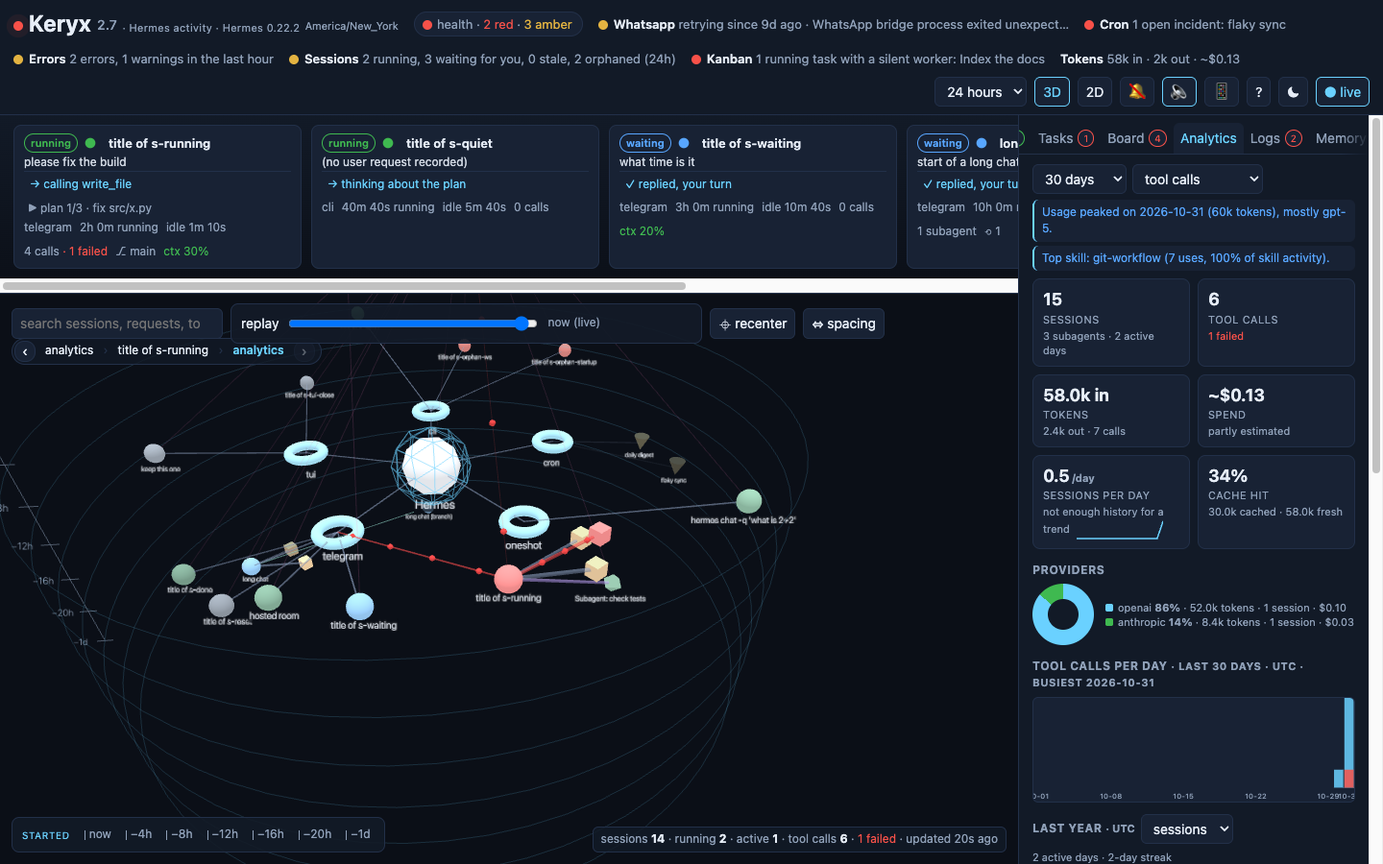
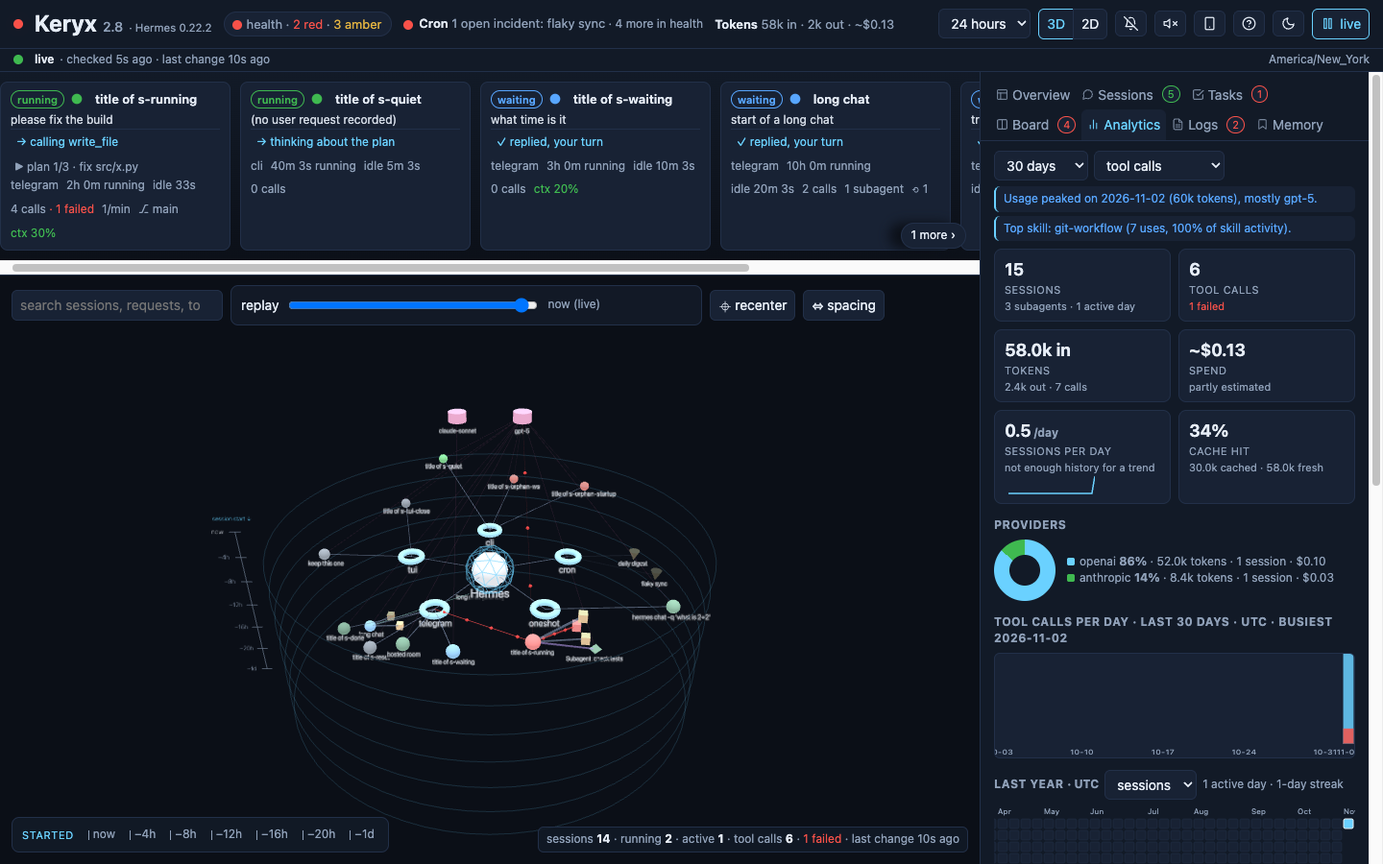
Typography and small-screen hygiene; version 2.8; docs and screenshots
- Times are a 24-hour clock everywhere (fmtTime/fmtT with hourCycle h23,
  tabular-nums in the logs and trace): '13:47:36' no longer wraps onto two
  lines in the Logs tab and the session id is no longer clipped.
- Body text has a 12 px floor; 11 px remains only for uppercase labels and
  pill badges; monospace snippets sit at 11.5 px.
- Light theme: accent, amber, green, blue and red are darkened so each
  reads at 5:1 or better on the page background (they were 4.5 to 4.9).
- Now-strip cards shrink to 240 px and snap; a '3 more' pill in the corner
  says how many cards sit off the right edge and scrolls to them.
- Phones: every control a thumb reaches is at least 40 px tall.
- README and docs describe the connection strip, the setup card, the phone
  header and sheet, the attention groups and mute, reduced motion, the
  keyboard reach, the resizable panel, the 24-hour clock and that Keryx is
  English only. Screenshots regenerated from synthetic data at 2.8.

diff --git a/frontend/src/styles.css b/frontend/src/styles.css
@@ -58,11 +58,12 @@ button:hover { border-color: var(--muted); }
 .fr-motion { display: flex; gap: 8px; align-items: flex-start; margin: 8px 0 2px; cursor: pointer; } .fr-motion input { margin: 2px 0 0; accent-color: var(--accent); }
 .body { flex: 1; display: flex; min-height: 0; }
 .main { flex: 1; display: flex; flex-direction: column; min-width: 0; }
-.now { display: flex; gap: 10px; overflow-x: auto; padding: 10px 14px; border-bottom: 1px solid var(--line);
+.now { display: flex; gap: 10px; overflow-x: auto; padding: 10px 14px; border-bottom: 1px solid var(--line); scroll-snap-type: x proximity; position: relative;
   background: linear-gradient(to bottom, var(--panel), var(--bg)); min-height: 64px; }
 .now:empty::after { content: "idle — no running sessions"; color: var(--muted); align-self: center; }
-.card { flex: 0 0 300px; background: var(--panel2); border: 1px solid var(--line); border-radius: 8px;
+.card { flex: 1 0 240px; max-width: 340px; scroll-snap-align: start; background: var(--panel2); border: 1px solid var(--line); border-radius: 8px;
   padding: 8px 10px; cursor: pointer; font-size: 12px; }
+.now .more { position: sticky; right: 0; align-self: flex-end; margin-bottom: 2px; flex: none; border-radius: 14px; padding: 4px 10px; font-size: 12px; white-space: nowrap; box-shadow: -12px 0 12px var(--bg); }
 .card .t { border-radius: 4px; margin: -2px -4px 0; padding: 2px 4px; }
 .card:hover, .card.sel { border-color: var(--accent); }
 .card .t { font-weight: 600; font-size: 13px; margin-bottom: 2px; display: flex; gap: 6px; align-items: center; }
@@ -101,7 +102,7 @@ button:hover { border-color: var(--muted); }
 .side td { padding: 3px 0; vertical-align: top; } .side td:first-child { color: var(--muted); width: 40%; }
 .cost td:nth-child(n+2) { text-align: right; font-variant-numeric: tabular-nums; }
 .err { color: var(--red); } .ok { color: var(--green); } .warn { color: var(--amber); }
-.small { font-size: 11px; color: var(--muted); }
+.small { font-size: 12px; color: var(--muted); }
 /* connection strip: the one place that says whether the picture is current */
 .connstrip { display: flex; gap: 6px; align-items: center; min-height: 24px; padding: 2px 14px; font-size: 12px; color: var(--muted);
   border-bottom: 1px solid var(--line); background: var(--panel); }
@@ -137,6 +138,12 @@ button:hover { border-color: var(--muted); }
   .mobilebar .small { margin-left: 0; }
   .now { min-height: 56px; padding-top: 8px; padding-bottom: 8px; }
   .card { flex-basis: 240px; }
+  /* touch targets: 40 px minimum for every control a thumb reaches (text links and section headers excepted) */
+  .app.narrow .right button, .app.narrow .right select, .app.narrow .sheet button, .app.narrow .sheet select, .app.narrow .tabs button,
+  .app.narrow .mobilebar button, .app.narrow .mobilebar .hcount, .app.narrow .toolbar button, .app.narrow .toolbar input, .app.narrow .row button,
+  .app.narrow .row select, .app.narrow .row input, .app.narrow .gate button, .app.narrow .gate input, .app.narrow .firstrun button { min-height: 40px; }
+  .app.narrow .tabs button { padding-top: 4px; padding-bottom: 4px; }
+  .app.narrow .att .mutebtn { min-height: 32px; opacity: 1; }
   .toolbar { left: 8px; right: 8px; top: 8px; gap: 6px; }
   .toolbar input[type=search] { width: 100%; }
   .replay { flex: 1; min-width: 0; } .replay input[type=range] { flex: 1; width: auto; min-width: 60px; } .replay .t { min-width: 0; }
@@ -156,8 +163,8 @@ button:hover { border-color: var(--muted); }
 .side a { color: var(--accent); text-decoration: none; }
 
 /* light theme */
-:root[data-theme="light"] { --bg: #f4f6fa; --panel: #ffffff; --panel2: #eef2f7; --line: #d6dde8; --text: #14202e; --muted: #5b6b80; --accent: #0b74c4;
-  --green: #1a7f37; --amber: #9a6700; --red: #cf222e; --blue: #0969da; --shadow: rgba(20,32,46,.18); --label-halo: rgba(244,246,250,.8); }
+:root[data-theme="light"] { --bg: #f4f6fa; --panel: #ffffff; --panel2: #eef2f7; --line: #d6dde8; --text: #14202e; --muted: #5b6b80; --accent: #0a66ad;
+  --green: #166f30; --amber: #875a00; --red: #c41f2b; --blue: #0860c9;   /* each at least 5:1 on --bg, so 12 px text clears AA with room */ --shadow: rgba(20,32,46,.18); --label-halo: rgba(244,246,250,.8); }
 :root[data-theme="light"] .popover.qr img { border: 1px solid var(--line); }
 /* side panel tabs */
 .tabs { display: flex; flex-wrap: wrap; gap: 0; margin: -4px -14px 10px; padding: 0 10px; border-bottom: 1px solid var(--line); }
@@ -178,20 +185,20 @@ svg.bars .axis { fill: var(--muted); font-size: 7px; }
 /* sessions list */
 .srow { display: flex; gap: 6px; align-items: flex-start; padding: 6px 6px; border-radius: 6px; cursor: pointer; border: 1px solid transparent; }
 .srow:hover { background: var(--panel2); } .srow.sel { border-color: var(--accent); }
-.srow .title { font-size: 12.5px; line-height: 1.3; }
+.srow .title { font-size: 13px; line-height: 1.3; }
 h3.acc { user-select: none; } .section h3.acc .accbtn { width: 100%; }
-kbd { background: var(--panel2); border: 1px solid var(--line); border-radius: 4px; padding: 0 4px; font-size: 11px; }
+kbd { background: var(--panel2); border: 1px solid var(--line); border-radius: 4px; padding: 0 4px; font-size: 11.5px; }
 /* logs */
-.loglist { font-size: 11.5px; margin-top: 6px; }
-.log { display: grid; grid-template-columns: 60px 56px minmax(0, 1fr) auto; grid-auto-rows: auto; column-gap: 6px; padding: 4px 0; border-top: 1px solid var(--line); }
-.log pre { grid-column: 1 / -1; margin: 2px 0 0; white-space: pre-wrap; word-break: break-word; font-size: 11px; color: var(--text); }
-.log .when { color: var(--muted); } .log .sess { color: var(--accent, #6ad1ff); font-family: ui-monospace, monospace; font-size: 10.5px; text-decoration: none; white-space: nowrap; }
+.loglist { font-size: 12px; margin-top: 6px; overflow: hidden; }
+.log { display: grid; grid-template-columns: 62px 58px minmax(0, 1fr) auto; grid-auto-rows: auto; column-gap: 6px; min-width: 0; padding: 4px 0; border-top: 1px solid var(--line); }
+.log pre { grid-column: 1 / -1; margin: 2px 0 0; white-space: pre-wrap; word-break: break-word; font-size: 12px; color: var(--text); }
+.log .when { color: var(--muted); font-variant-numeric: tabular-nums; white-space: nowrap; } .log .sess { color: var(--accent, #6ad1ff); font-family: ui-monospace, monospace; font-size: 11.5px; text-decoration: none; white-space: nowrap; }
 .log button.sess { justify-self: end; } .log .lvl { font-weight: 600; } .log .logger { color: var(--muted); overflow: hidden; text-overflow: ellipsis; white-space: nowrap; }
 .log.warning .lvl { color: var(--amber); } .log.error .lvl, .log.critical .lvl { color: var(--red); } .log.info .lvl { color: var(--muted); }
 /* trace */
 .trace { font-size: 12px; }
 .step { padding: 5px 6px; border-top: 1px solid var(--line); }
-.step .when { color: var(--muted); margin-right: 6px; font-size: 11px; }
+.step .when { color: var(--muted); margin-right: 6px; font-size: 12px; font-variant-numeric: tabular-nums; }
 .step b { margin-right: 4px; }
 .step .txt { white-space: pre-wrap; word-break: break-word; margin-top: 2px; }
 .step.user { background: color-mix(in srgb, var(--accent) 8%, transparent); }
@@ -212,13 +219,13 @@ kbd { background: var(--panel2); border: 1px solid var(--line); border-radius: 4
 .step.event b { color: var(--muted); font-weight: 500; font-style: italic; }
 .step .detail { margin-top: 4px; }
 .step .k { color: var(--muted); font-size: 11px; text-transform: uppercase; letter-spacing: .5px; margin-top: 4px; }
-.step pre { margin: 2px 0; white-space: pre-wrap; word-break: break-word; font-size: 11px; background: var(--panel2); padding: 6px; border-radius: 4px; max-height: 240px; overflow: auto; }
+.step pre { margin: 2px 0; white-space: pre-wrap; word-break: break-word; font-size: 12px; background: var(--panel2); padding: 6px; border-radius: 4px; max-height: 240px; overflow: auto; }
 .legend td.small { padding-top: 8px; }
 
 /* clickable time axis */
 .timeaxis { position: absolute; left: 12px; bottom: 12px; display: flex; flex-direction: row; align-items: center; gap: 2px; z-index: 3; max-width: calc(100% - 24px); overflow-x: auto;
   background: color-mix(in srgb, var(--panel) 88%, transparent); border: 1px solid var(--line); border-radius: 8px; padding: 6px 6px 6px 4px; }
-.ta-title { font-size: 10px; color: var(--accent); text-transform: uppercase; letter-spacing: .6px; padding: 0 8px 0 6px; white-space: nowrap; }
+.ta-title { font-size: 11px; color: var(--accent); text-transform: uppercase; letter-spacing: .6px; padding: 0 8px 0 6px; white-space: nowrap; }
 .ta-tick { display: flex; align-items: center; gap: 4px; background: transparent; border: 1px solid transparent; color: var(--muted);
   padding: 2px 7px 2px 4px; font-size: 12px; text-align: left; border-radius: 5px; white-space: nowrap; }
 .ta-tick:hover { color: var(--text); background: var(--panel2); }
@@ -236,7 +243,7 @@ kbd { background: var(--panel2); border: 1px solid var(--line); border-radius: 4
 
 /* --- AionUi-inspired additions: badges, tasks board, context gauge, files, toasts, QR --- */
 .info { color: var(--blue); }
-.badge { display: inline-block; min-width: 16px; padding: 0 5px; margin-left: 5px; border-radius: 9px; font-size: 10px; line-height: 16px;
+.badge { display: inline-block; min-width: 16px; padding: 0 5px; margin-left: 5px; border-radius: 9px; font-size: 11px; line-height: 16px;
   text-align: center; background: var(--panel2); color: var(--text); border: 1px solid var(--line); vertical-align: 1px; }
 .badge.ok { border-color: var(--green); color: var(--green); } .badge.err { border-color: var(--red); color: var(--red); }
 .tabs button { white-space: nowrap; flex: none; }
@@ -252,7 +259,7 @@ kbd { background: var(--panel2); border: 1px solid var(--line); border-radius: 4
 .gauge .bar { flex: 0 0 90px; height: 7px; background: var(--panel2); border: 1px solid var(--line); border-radius: 4px; overflow: hidden; }
 .gauge .bar i { display: block; height: 100%; background: var(--green); }
 .gauge .bar i.warn { background: var(--amber); } .gauge .bar i.err { background: var(--red); }
-.files { font-size: 11.5px; }
+.files { font-size: 12px; }
 .file { display: grid; grid-template-columns: 28px 1fr auto; gap: 6px; align-items: baseline; padding: 2px 0; border-top: 1px solid var(--line); }
 .file .op { color: var(--muted); } .file.changed .op { color: var(--amber); }
 .file .path { overflow: hidden; text-overflow: ellipsis; white-space: nowrap; direction: rtl; text-align: left; min-width: 0; }
@@ -288,7 +295,7 @@ kbd { background: var(--panel2); border: 1px solid var(--line); border-radius: 4
 .reader .seg button:disabled { opacity: .45; cursor: default; }
 .outline { margin: 6px 0 2px; }
 .outline ol { list-style: none; margin: 2px 0 6px; padding: 0; max-height: 180px; overflow: auto; border: 1px solid var(--line); border-radius: 6px; }
-.outline li a { display: grid; grid-template-columns: 18px minmax(0, 1fr) auto; gap: 6px; align-items: baseline; padding: 3px 6px; color: var(--text); text-decoration: none; font-size: 11.5px; }
+.outline li a { display: grid; grid-template-columns: 18px minmax(0, 1fr) auto; gap: 6px; align-items: baseline; padding: 3px 6px; color: var(--text); text-decoration: none; font-size: 12px; }
 .outline li a:hover { background: var(--panel2); } .outline li.off a { opacity: .45; }
 .outline .n { color: var(--muted); font-variant-numeric: tabular-nums; } .outline .q { overflow: hidden; text-overflow: ellipsis; white-space: nowrap; }
 .outline .m { white-space: nowrap; }
@@ -300,9 +307,9 @@ kbd { background: var(--panel2); border: 1px solid var(--line); border-radius: 4
 .step.assistant.note .txt { color: var(--muted); font-style: italic; }
 .step.pending { border-top: none; padding-top: 2px; }
 .step .glyph { display: inline-block; width: 14px; text-align: center; color: var(--muted); margin-right: 4px; font-size: 11px; }
-.step .title { color: var(--muted); font-family: ui-monospace, SFMono-Regular, Menlo, monospace; font-size: 11px; margin-left: 2px; overflow: hidden; text-overflow: ellipsis; white-space: nowrap; display: inline-block; max-width: 55%; vertical-align: bottom; }
+.step .title { color: var(--muted); font-family: ui-monospace, SFMono-Regular, Menlo, monospace; font-size: 11.5px; margin-left: 2px; overflow: hidden; text-overflow: ellipsis; white-space: nowrap; display: inline-block; max-width: 55%; vertical-align: bottom; }
 .step .st { white-space: nowrap; }
-.diffline { font-size: 11px; margin-top: 2px; font-family: ui-monospace, SFMono-Regular, Menlo, monospace; }
+.diffline { font-size: 12px; margin-top: 2px; font-family: ui-monospace, SFMono-Regular, Menlo, monospace; }
 .add { color: var(--green); } .del { color: var(--red); } .diffline .path { color: var(--muted); }
 .pm { font-family: ui-monospace, SFMono-Regular, Menlo, monospace; }
 .step.miss { opacity: .35; } .step.hit { box-shadow: inset 2px 0 0 var(--accent); }
@@ -324,23 +331,23 @@ svg.heatmap .c.today { stroke: var(--text); stroke-width: 1; }
 tr.off td { opacity: .55; }
 
 /* sessions list: tags, pins, conversation search */
-.tagchip { display: inline-block; font-size: 10.5px; padding: 0 6px; margin-left: 5px; border-radius: 9px; border: 1px solid var(--line); color: var(--muted); text-decoration: none; line-height: 16px; vertical-align: 1px; }
+.tagchip { display: inline-block; font-size: 11px; padding: 0 6px; margin-left: 5px; border-radius: 9px; border: 1px solid var(--line); color: var(--muted); text-decoration: none; line-height: 16px; vertical-align: 1px; }
 .tagchip:hover { border-color: var(--accent); color: var(--accent); } .tagchip.on { border-color: var(--accent); color: var(--accent); background: color-mix(in srgb, var(--accent) 12%, transparent); }
 .tags { display: inline-flex; flex-wrap: wrap; gap: 2px 0; align-items: center; }
 .srow .pin { margin-left: auto; color: var(--muted); text-decoration: none; opacity: 0; font-size: 13px; padding: 0 2px; }
 .srow:hover .pin, .srow .pin.hermes { cursor: default; } .pin.on { opacity: 1; } .srow .pin.on { color: var(--amber); }
 .snip { margin-top: 2px; line-height: 1.3; } .snip mark { background: color-mix(in srgb, var(--accent) 30%, transparent); color: var(--text); border-radius: 2px; padding: 0 1px; }
 .snt { color: var(--text); opacity: .85; }
-.resume { margin-top: 6px; } .resume code { font-family: ui-monospace, SFMono-Regular, Menlo, monospace; font-size: 11px; background: var(--panel2); padding: 1px 5px; border-radius: 4px; user-select: all; }
+.resume { margin-top: 6px; } .resume code { font-family: ui-monospace, SFMono-Regular, Menlo, monospace; font-size: 11.5px; background: var(--panel2); padding: 1px 5px; border-radius: 4px; user-select: all; }
 
 /* memory panel */
 .tabs.sub { margin: 0 0 6px; } .tabs.sub button { padding: 4px 8px; text-transform: none; }
 .entries { list-style: none; margin: 0; padding: 0; }
 .entries li { display: grid; grid-template-columns: 18px minmax(0, 1fr); gap: 6px; padding: 5px 4px; border-top: 1px solid var(--line); font-size: 12px; }
-.entries .n { color: var(--muted); font-variant-numeric: tabular-nums; font-size: 11px; padding-top: 1px; }
+.entries .n { color: var(--muted); font-variant-numeric: tabular-nums; font-size: 12px; padding-top: 1px; }
 .entries .txt { white-space: pre-wrap; word-break: break-word; }
 .entries li.blocked .txt { color: var(--red); } .entries li.blocked { background: color-mix(in srgb, var(--red) 8%, transparent); }
-.memory code, .side code { font-family: ui-monospace, SFMono-Regular, Menlo, monospace; font-size: 11px; background: var(--panel2); padding: 1px 4px; border-radius: 4px; }
+.memory code, .side code { font-family: ui-monospace, SFMono-Regular, Menlo, monospace; font-size: 11.5px; background: var(--panel2); padding: 1px 4px; border-radius: 4px; }
 
 /* kanban board (read-only) */
 .kcard { cursor: pointer; } .kcard:hover { border-color: var(--accent); } .kcard.open { border-color: var(--accent); }

diff --git a/docs/index.html b/docs/index.html
@@ -243,7 +243,7 @@ footer .wrap > div { display: flex; flex-wrap: wrap; gap: 16px; align-items: cen
         <div class="card">
           <h3>Health header</h3>
           <ul>
-            <li>The title dot shows the worst check; a <strong>health</strong> pill counts the red and amber ones and opens every check; only checks that are not green stay inline.</li>
+            <li>The title dot shows the worst check; a <strong>health</strong> pill counts the red and amber ones and opens every check (Esc closes it); only the single worst check stays inline. A strip under the header says whether the picture is current: <strong>live · checked 3s ago · last change 4m ago</strong>, <strong>reconnecting…</strong> or <strong>backend unreachable since 14:02</strong>, with the stream pinged every 15 s so a dead host shows within half a minute.</li>
             <li><strong>Gateway</strong> heartbeat and Hermes' own process state and version from <code>gateway_state.json</code>, one check per <strong>messaging platform</strong> as the gateway reports it (with the error it recorded when one is retrying), <strong>cron</strong> scheduler, the <strong>error log</strong>, session states, and the kanban board when it has tasks, each green / amber / red; the worst one drives the title dot.</li>
             <li>The cron check reads Hermes' own incident ledger and delivery queue: an open incident is red, undelivered results are amber.</li>
             <li>Token totals for the window with the spend, prefixed <code>~</code> when it is an estimate rather than a provider-reported figure.</li>
@@ -359,9 +359,9 @@ footer .wrap > div { display: flex; flex-wrap: wrap; gap: 16px; align-items: cen
         <h3>Navigation</h3>
         <ul>
           <li>Every selection is a browser history entry that remembers the selection, the tab and the camera pose. <kbd>Backspace</kbd> goes back, <kbd>Shift</kbd>+<kbd>Backspace</kbd> forward; <kbd>Alt</kbd>+<kbd>←</kbd> and trackpad swipes work too. <kbd>[</kbd> and <kbd>]</kbd> change tab, <kbd>↑</kbd> <kbd>↓</kbd> walk the session list, <kbd>?</kbd> in the header reopens the first-run card.</li>
-          <li>On a phone the graph and the panel take turns at full width behind a map / panel toggle; light and dark themes are both designed, not inverted.</li>
+          <li>On a phone the header is one row with a "…" sheet for the controls, the health counts sit in the map / panel bar, every control is at least 40 px tall, and the graph and the panel take turns at full width; light and dark themes are both designed, not inverted.</li>
           <li>The URL hash (<code>#session:…</code>, <code>#cron:…</code>) is a deep link you can share, or scan from the QR popover to open on your phone, where "add to home screen" keeps Keryx as an app.</li>
-          <li>Every icon button is labelled for screen readers; focus rings are visible; a first-run card explains the picture and <kbd>?</kbd> brings it back.</li>
+          <li>Every card, attention line, section header, trace step and kanban card is a real control reachable with <kbd>Tab</kbd>; focus rings are visible; a first-run card explains the picture, holds the reduce-motion switch, and <kbd>?</kbd> brings it back. The attention list is grouped into <strong>needs action</strong>, <strong>watch</strong> and <strong>info</strong>, says since when, and a line can be muted on this device until it changes. With no <code>state.db</code> behind the backend the graph gives way to a setup card naming the fix.</li>
         </ul>
       </div>
       <div class="card">

diff --git a/frontend/src/NowStrip.jsx b/frontend/src/NowStrip.jsx
@@ -1,12 +1,27 @@
-import React from 'react'
+import React, { useEffect, useRef, useState } from 'react'
 import { STATUS, contextLevel, dur, plural } from './util.js'
 import Shape from './Shapes.jsx'
 import { pressable } from './a11y.js'
 
 export default function NowStrip({ now, selected, onSelect }) {
   const rows = (now?.running || []).filter(r => r.status === 'running' || r.status === 'stale' || r.status === 'waiting')
+  const ref = useRef(null)
+  const [hiddenN, setHiddenN] = useState(0)      // cards off the right edge: the strip says so instead of looking merely cut off
+  useEffect(() => {
+    const el = ref.current
+    if (!el) return
+    const count = () => {
+      const right = el.getBoundingClientRect().right
+      setHiddenN([...el.querySelectorAll('.card')].filter(c => c.getBoundingClientRect().left + 40 > right).length)
+    }
+    count()
+    el.addEventListener('scroll', count, { passive: true })
+    const ro = typeof ResizeObserver !== 'undefined' ? new ResizeObserver(count) : null
+    ro?.observe(el)
+    return () => { el.removeEventListener('scroll', count); ro?.disconnect() }
+  }, [rows.length])
   return (
-    <div className="now" role="list" aria-label="sessions in progress">
+    <div className="now" role="list" aria-label="sessions in progress" ref={ref}>
       {rows.map(r => (
         <div key={r.id} className={`card ${selected === 'session:' + r.id ? 'sel' : ''}`} role="listitem">
           <div className="t" {...pressable(() => onSelect('session:' + r.id), { className: 't', 'aria-label': `${r.status}: ${r.title}. Open its details`, 'aria-pressed': selected === 'session:' + r.id })}>
@@ -30,6 +45,7 @@ export default function NowStrip({ now, selected, onSelect }) {
           </div>
         </div>
       ))}
+      {hiddenN > 0 && <button type="button" className="more" onClick={() => ref.current?.scrollBy({ left: 260, behavior: 'smooth' })} aria-label={`${hiddenN} more ${hiddenN === 1 ? 'session' : 'sessions'} to the right; scroll`}>{hiddenN} more ›</button>}
     </div>
   )
 }

diff --git a/frontend/src/util.test.js b/frontend/src/util.test.js
@@ -1,0 +1,23 @@
+import { describe, expect, it } from 'vitest'
+import { dur, fmtT, fmtTime, num, plural } from './util.js'
+
+describe('time formatting', () => {
+  it('uses a 24-hour clock that never wraps', () => {
+    expect(fmtTime(1_700_000_000)).toMatch(/^\d{2}:\d{2}:\d{2}$/)
+    expect(fmtTime(0)).toBe('–')
+    expect(fmtT(1_700_000_000)).toMatch(/\d{2}:\d{2}:\d{2}$/)
+    expect(fmtT(1_700_000_000)).not.toMatch(/[AP]M/)
+  })
+  it('midnight is 00, not 24', () => {
+    const midnight = new Date(2026, 0, 1, 0, 5, 7).getTime() / 1000
+    expect(fmtTime(midnight)).toBe('00:05:07')
+  })
+})
+
+describe('small helpers', () => {
+  it('dur and plural', () => {
+    expect(dur(59)).toBe('59s'); expect(dur(61)).toBe('1m 1s'); expect(dur(3600 * 26)).toBe('1d 2h')
+    expect(plural(1, 'call')).toBe('1 call'); expect(plural(2, 'entry', 'entries')).toBe('2 entries')
+  })
+  it('num abbreviates', () => { expect(num(950)).toBe('950'); expect(num(58_000)).toBe('58.0k'); expect(num(2_500_000)).toBe('2.50M') })
+})

diff --git a/frontend/src/util.js b/frontend/src/util.js
@@ -1,5 +1,7 @@
-export const fmtT = t => (t ? new Date(t * 1000).toLocaleString() : '–')
-export const fmtTime = t => (t ? new Date(t * 1000).toLocaleTimeString() : '–')
+// 24-hour clock everywhere: '13:47:36' sorts, aligns (tabular-nums) and never wraps, where '1:47:36 PM' did all three
+const H23 = { hourCycle: 'h23', hour: '2-digit', minute: '2-digit', second: '2-digit' }
+export const fmtT = t => (t ? new Date(t * 1000).toLocaleString(undefined, { ...H23, year: 'numeric', month: 'short', day: 'numeric' }) : '–')
+export const fmtTime = t => (t ? new Date(t * 1000).toLocaleTimeString(undefined, H23) : '–')
 export const dur = s => {
   if (s == null) return '–'
   s = Math.max(0, s)

diff --git a/backend/app.py b/backend/app.py
@@ -73,7 +73,7 @@ USER_CLOSE_REASONS = {"cli_close", "tui_shutdown", "tui_close", "user_exit", "se
 # The session was compacted: Hermes ends it and continues the same conversation in a child session.
 COMPRESSION_REASON = "compression"
 
-app = FastAPI(title="Keryx", version="2.7")
+app = FastAPI(title="Keryx", version="2.8")
 
 
 def authorised(request: Request) -> bool:

diff --git a/README.md b/README.md
@@ -92,9 +92,10 @@ docker compose pull keryx && docker compose up -d keryx      # Docker
 
 | Area | What it shows |
 |---|---|
-| Header | the title dot shows the worst health check; a **health** pill counts the red and amber ones and opens every check; only checks that are not green stay inline. Checks: gateway (heartbeat, Hermes' own process state and version from `gateway_state.json`, a pending restart), one per messaging platform as the gateway reports it, cron (incidents, missed slots, undelivered results), error log, sessions, the kanban board when it has tasks, storage. Token totals with the spend, `~` when estimated. The browser's timezone is named beside the title. |
+| Header | the title dot shows the worst health check; a **health** pill counts the red and amber ones and opens every check (Esc or a click outside closes it); the single worst check stays inline with "N more in health". Checks: gateway (heartbeat, Hermes' own process state and version from `gateway_state.json`, a pending restart), one per messaging platform as the gateway reports it, cron (incidents, missed slots, undelivered results), error log, sessions, the kanban board when it has tasks, storage. Token totals with the spend, `~` when estimated. |
+| Connection strip | under the header, the one place that says whether the picture is current: **live · checked 3s ago · last change 4m ago**, **reconnecting… showing data from 14:02** (amber, the stream went quiet or failed and Keryx is polling), **backend unreachable since 14:02 · showing the last snapshot** (red), or **live updates paused**. The backend pings the stream every 15 s; 30 s of silence counts as stalled. The browser's timezone sits at its right end. On a phone only the non-green states take the room. |
 | Right now | one card per open session: the request, the latest step, plan progress, elapsed and idle time, calls per minute, context usage, git branch, subagents. |
-| Attention | one ranked list of everything red or amber (failing cron jobs, platforms that are not connected, silent kanban workers, undelivered results, log errors, a pending gateway restart, orphaned sessions) and, last, the sessions waiting for you. Each line selects the node or opens the tab. |
+| Attention | everything red or amber (failing cron jobs, platforms that are not connected, silent kanban workers, undelivered results, log errors, a pending gateway restart, orphaned sessions) in three groups, **needs action**, **watch** and **info** (the sessions waiting for you), each with a count and "since 9d" where the data knows when it began. Each line selects the node or opens the tab. The bell on a line mutes it on this device until its text changes; muted lines sit behind "N muted · show". Keryx never writes any of this to Hermes. |
 | Graph | Hermes at the centre, the platforms it talks on around it, each session in its platform's wedge with its tools clustered around it, subagents in orbit, models on a shelf, cron jobs below. 3D or 2D; labels scale with distance. A clickable ruler along the bottom filters by when a session started. |
 | Selected node | a session opens with four lines (status, request, latest step, context gauge) and the command to resume it in a terminal, then the **trace** as a reading view, the agent's **plan** (its `todo_list`), **what fills the context** (your messages, replies, tool-call arguments and tool output by tool, in characters), **files touched**, and two collapsed sections: cost and usage, lineage and environment. |
 | Sessions tab | grouped by platform, time or project; `#tags` from titles as filter chips; ☆ pins, ★ for sessions pinned in Hermes itself; Hermes' internal sessions (one-shot calls, tool helpers, kanban workers) in a collapsed group; sessions Hermes hides stay out unless you tick "show hidden". The search box also looks inside conversations through Hermes' full-text index. |
@@ -103,8 +104,9 @@ docker compose pull keryx && docker compose up -d keryx      # Docker
 | Analytics tab | insight sentences, sessions-per-day momentum, cache-hit trend, provider mix, when Hermes works by hour of day and weekday, daily trend, a year heatmap, per-day cost, model share, Hermes' skill ledger, achievement unlocks. |
 | Logs tab | filterable tails of every log file Hermes writes; lines logged inside a session link to it. |
 | Memory tab | Hermes' `MEMORY.md` and `USER.md`, read-only, opt-in (`KERYX_SHOW_MEMORY=1`). |
-| Phone | under 800px the graph and the panel take turns at full width behind a map / panel toggle; screens under 1200px start in 2D. |
-| First run | a card explains shape, colour and position, the glyphs, and where the data comes from; the `?` in the header brings it back. |
+| Phone | under 800px the header is one row (title, live toggle, a "…" sheet with the window, view, alerts, sound, QR, help and theme), the red and amber counts sit in the map / panel bar and open the Overview, and the graph and the panel take turns at full width. Screens under 1200px start in 2D; every control is at least 40 px tall. |
+| No data yet | when there is no `state.db` behind the backend the graph gives way to a setup card naming the directory Keryx looked in and the two fixes (`HERMES_HOME` under docker compose, `HERMES_DATA` from source, `HERMES_UID`/`HERMES_GID` for permissions). The card goes away on its own when the file appears. |
+| First run | a card explains shape, colour and position, the glyphs, where the data comes from and the keyboard; the `?` in the header brings it back. It also holds the **reduce motion** switch: Keryx follows the system's reduced-motion setting (no breathing nodes, link particles or pulsing dots, 2D by default) and the switch overrides it for this browser. |
 | Notifications | in-app toasts, desktop notifications if you allow them, and optional short synthesised sounds (no audio files), when Hermes replies and waits for you, a session fails or is orphaned, a delegation finishes, a cron job fails or misses its trigger. |
 
 **Compacted conversations.** When Hermes compacts a long chat it ends the session and continues in a child session. Keryx folds that lineage into one node: it starts when the first segment started, takes its colour from the latest segment, and its trace shows every segment with a ⟲ marker where the context was compacted. The node keeps the first segment's id, so a `#session:…` link to any segment opens the same node. Branches the user made (`/branch`) stay separate sessions joined to their origin by a teal link; delegated subagents keep their purple link.
@@ -121,7 +123,7 @@ docker compose pull keryx && docker compose up -d keryx      # Docker
 
 **Spacing.** ⇔ spacing scales rings, link lengths and repulsion together (compact / normal / airy / wide, or a slider). ⌖ recenter frames the whole graph again. Both settings are remembered per browser.
 
-**Navigation history.** Every selection (graph click, now-card, side-panel link, toast) is a browser history entry that remembers the selection, the side-panel tab and the camera pose just before the move. The trail under the toolbar shows `‹ back`, the last few stops (click one to jump there) and `› forward`. The URL hash (`#session:…`, `#cron:…`) is a deep link: share it, or scan it from the 📱 QR popover, and the page opens on that node.
+**Navigation history.** Every selection (graph click, now-card, side-panel link, toast) is a browser history entry that remembers the selection, the side-panel tab and the camera pose just before the move. The **history** trail under the toolbar shows `‹ back`, the last few stops (click one to jump there) and `› forward`; it is the path you took, not a breadcrumb of where you are, which is why tabs and nodes mix in it. The URL hash (`#session:…`, `#cron:…`) is a deep link: share it, or scan it from the 📱 QR popover, and the page opens on that node.
 
 **Keyboard.**
 
@@ -133,11 +135,16 @@ docker compose pull keryx && docker compose up -d keryx      # Docker
 | `⌘K` / `Ctrl+K` | focus search and open the sessions tab |
 | `[` / `]` | previous / next side-panel tab |
 | `↑` / `↓`, `Enter` | walk the session list, select the focused row |
-| `Esc` | clear the selection |
+| `Esc` | clear the selection, or close an open popover |
+| `Tab`, `Enter` / `Space` | reach and activate every card, attention line, section header, trace step and kanban card |
 
-Every icon button carries a label for screen readers and a visible focus ring.
+Every control is a real button with a label for screen readers and a visible focus ring; section headers announce whether they are open. The graph canvas itself cannot be read by a screen reader; it is labelled to say so and points to the Sessions, Tasks and Board tabs, which list the same things.
 
-**Other buttons.** 🔔 enables desktop notifications; 🔈 adds a short sound per notification (synthesised in the browser, off by default). 📱 shows a QR code of the current page for your phone; Keryx ships a web-app manifest, so "add to home screen" keeps it as an app there. `?` reopens the first-run card. ☾/☀ toggles the theme. ⤓ diagnostics (overview tab) downloads a redacted snapshot to attach to a bug report.
+**Other buttons.** The bell enables desktop notifications; the speaker adds a short sound per notification (synthesised in the browser, off by default). The phone icon shows a QR code of the current page for your phone; Keryx ships a web-app manifest, so "add to home screen" keeps it as an app there. `?` reopens the first-run card. The moon / sun toggles the theme. Screens wider than 1600 px show a word next to each icon. ⤓ diagnostics (overview tab, marked "safe to share") downloads a JSON snapshot of counts, versions and check results to attach to a bug report; it never contains messages, prompts, memory or keys.
+
+**Side panel.** The tabs carry icons and wrap rather than scroll, so none is ever hidden. Drag the panel's left edge to widen it (420 to 640 px); the width is remembered per browser.
+
+**Language.** Keryx is English only. Absolute dates and times follow the browser's locale on a 24-hour clock; relative times ("4m ago"), counts and abbreviations ("58.0k") are English.
 
 ## Configuration
 
@@ -154,7 +161,7 @@ All settings are environment variables.
 | `STALE_AFTER` | `1800` | seconds; a session that is mid-turn but idle for this long is shown as stale |
 | `CONTEXT_LENGTH` | `400000` | last-resort context window for the gauge. Keryx first uses `model.context_length` from Hermes' config.yaml, then the window Hermes probed and cached in `context_length_cache.yaml`, then a small built-in table; only a model none of those know falls back to this value, and the gauge says so |
 
-Colours and labels live in `frontend/src/util.js`; rebuild after changing them.
+Colours and labels live in `frontend/src/util.js`; rebuild after changing them. Light-theme accents are set so every one of them reads at 5:1 or better on the page background at 12 px.
 
 ## What Keryx reads
 
